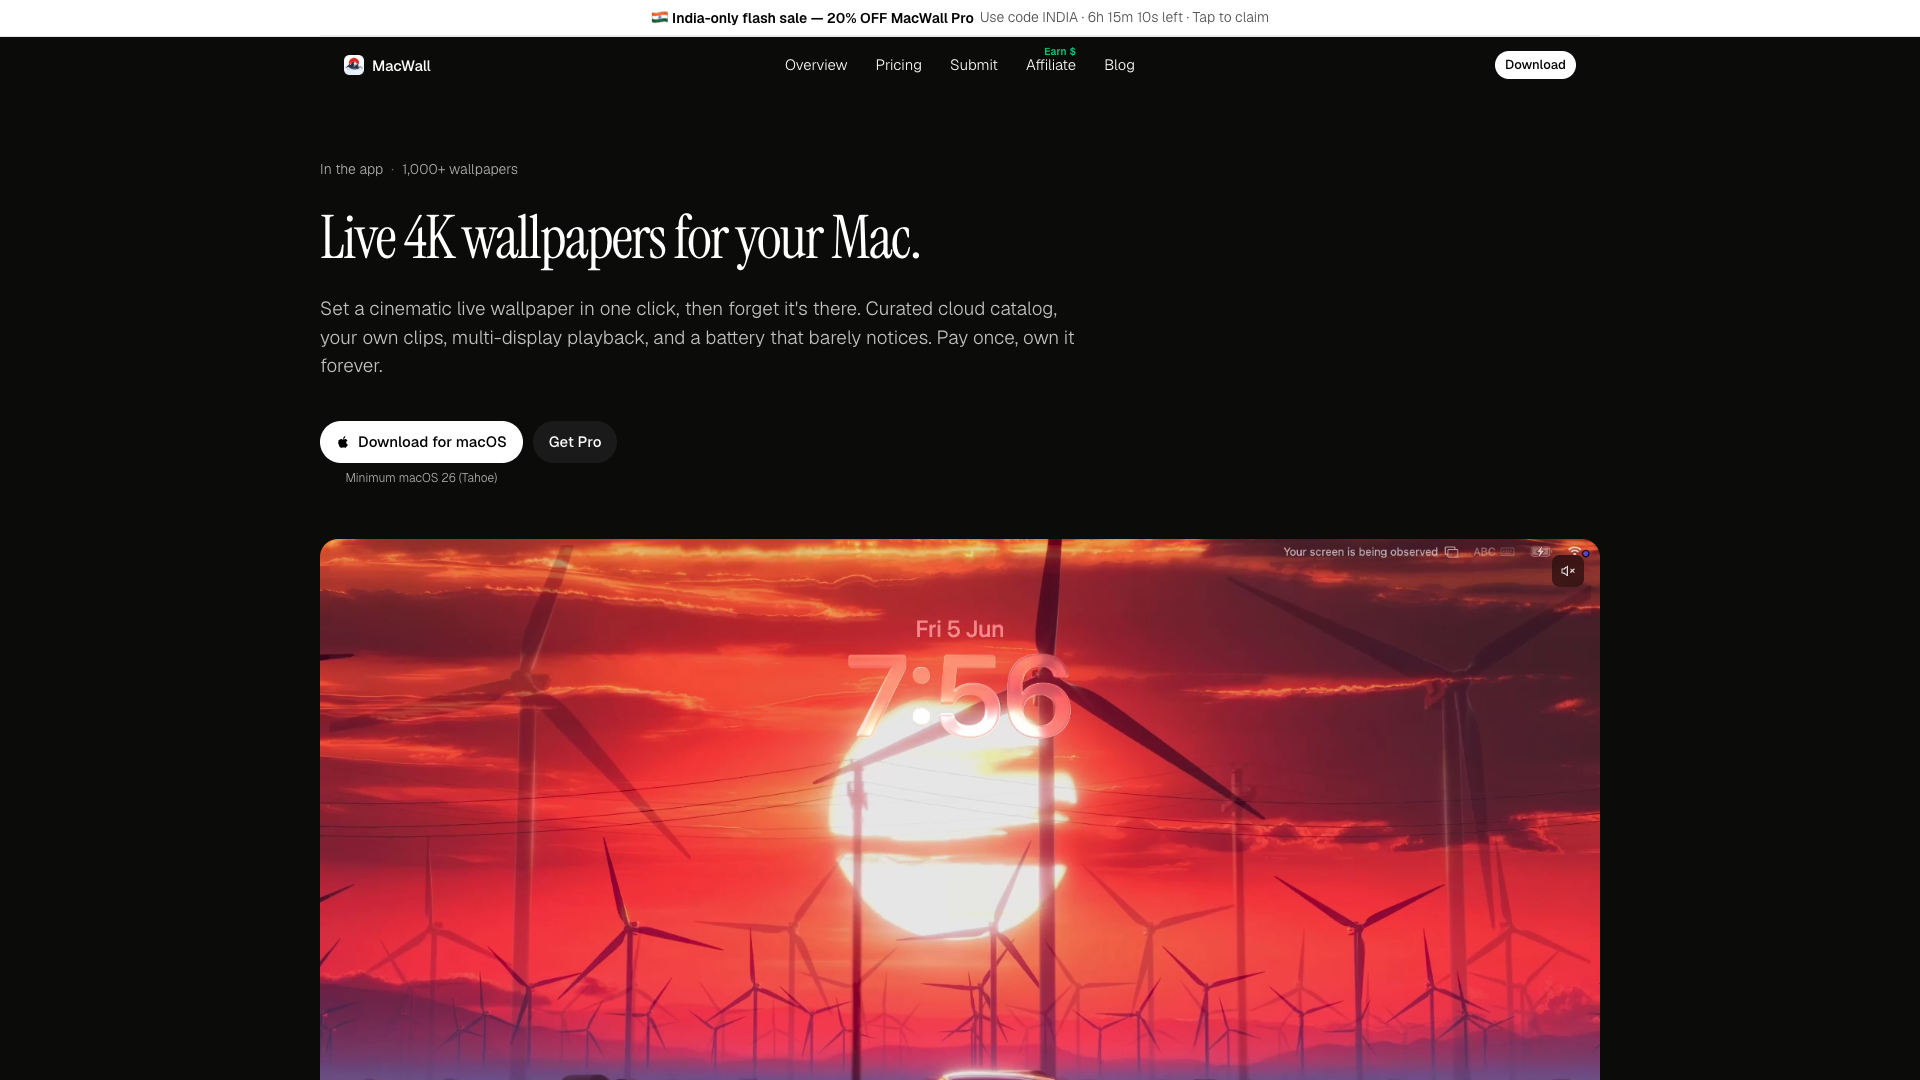
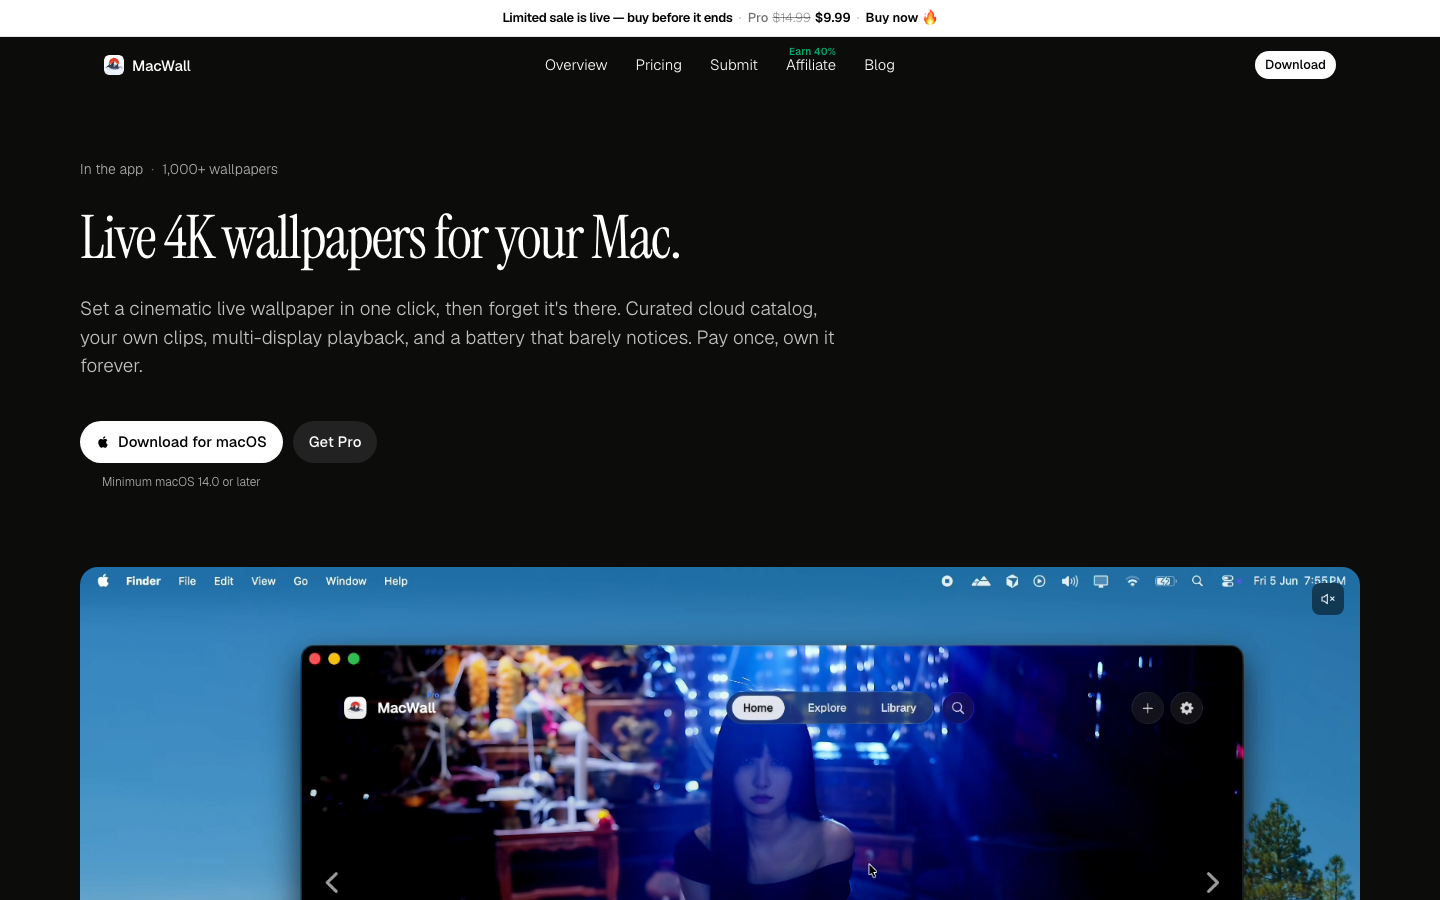
refresh README and screenshots for current Free/Pro/Pro+ pricing

diff --git a/README.md b/README.md
@@ -1,71 +1,81 @@
 # MacWall Web
 
-hey! this is the website for **[MacWall](https://macwall.app)** — a native macOS app for cinematic live wallpapers.
+hey! this is the website for **[MacWall](https://macwall.app)** — a native macOS app for cinematic live 4K wallpapers.
 
-**demo (no setup needed):** [https://macwall.app](https://macwall.app)
+**live site (no setup):** [https://macwall.app](https://macwall.app)
 
-you can download the free app, browse the wallpaper catalog, and upgrade to Pro from the site. payments go through Stripe. after checkout, the license opens the Mac app with a `macwall://activate` deep link.
+browse the catalog, download the free Mac app, and unlock Pro with a one-time Stripe checkout. after payment, the license opens the app via `macwall://activate`.
 
-if you just want to try MacWall, open the site and hit download. you dont need this repo for that.
+you dont need this repo just to use MacWall — clone it if you want to run or contribute to the web + commerce side.
 
-![MacWall homepage](public/screenshots/homepage.png)
+![MacWall homepage — live 4K wallpapers hero](public/screenshots/homepage.png)
 
 ## why I made this
 
-I built MacWall (the Mac app) first, then realized the product needed a real home on the web — not just a landing page. this repo is that home: pricing, Stripe checkout, license delivery, blog/SEO pages, community wallpaper submissions, affiliates, and support.
+I built MacWall (the Mac app) first, then needed a real home on the web — not a throwaway landing page. this repo is that home: marketing, pricing, Stripe checkout, license delivery, blog/SEO, community submissions, affiliates, and support.
 
-the actual Mac app is Swift and lives in a separate repo. this one is everything on the web + commerce side.
+the Mac app itself is Swift and lives in a separate repo. this one is the public web + commerce stack.
 
-## screenshots
+## screenshots (current)
 
-### homepage
+### homepage hero
 
-the marketing site with the live wallpaper hero.
+live wallpaper product shot, download CTA, and “pay once, own it forever” positioning. catalog callout: **1,000+ wallpapers**. minimum **macOS 14.0+**.
 
 ![MacWall homepage](public/screenshots/homepage.png)
 
 ### pricing
 
-free, annual Pro, permanent Pro Plus, and the Reel Refund offer.
+three plans — **Free**, **Pro** ($9.99 one-time, limited sale), and **Pro+** ($14.99 one-time for up to 5 Macs). no new annual subscriptions. Stripe Adaptive Pricing localizes presentment at checkout.
 
-![MacWall pricing](public/screenshots/pricing.png)
+![MacWall pricing — Free / Pro / Pro+](public/screenshots/pricing.png)
 
 ### app settings
 
-battery + playback controls inside the Mac app (shown so you can see what the site is selling).
+battery + playback controls inside the Mac app (what the site is selling).
 
 ![MacWall settings](public/screenshots/settings.jpg)
 
 ## what this repo does
 
-- main homepage + product pages (hero demo, lock screen / screen saver pitches)
-- pricing + Stripe Checkout (annual, permanent, 5-Mac plans, India coupon support)
-- thank-you / license activation flow (`macwall://activate`)
-- blog + SEO landing pages + wallpaper category pages
+- homepage with real catalog hero demo (Home / Explore / Library UI)
+- pricing: Free · Pro (3 Macs) · Pro+ (5 Macs) — pay once, lifetime updates
+- Stripe Checkout only (`/api/checkout/create-session`) + Adaptive Pricing
+- thank-you / license activation (`macwall://activate`)
+- abandoned-checkout recovery queue (Supabase + cron edge function)
+- blog, SEO landings, wallpaper category pages
 - community wallpaper submissions
 - affiliate program pages
 - support inbox UI
-- admin tools for managing the wallpaper catalog
+- admin tools for the wallpaper catalog
 - license emails via Supabase edge functions
+
+## pricing model (current)
+
+| plan | price | what you get |
+| --- | --- | --- |
+| **Free** | $0 | curated free wallpapers, menu bar, multi-display, community uploads |
+| **Pro** | **$9.99** one-time (was $14.99) | 1,000+ live wallpapers, Lock Screen & Screen Saver, import videos, up to **3 Macs**, Music Sync, lifetime updates |
+| **Pro+** | **$14.99** one-time (was $24.99) | everything in Pro on up to **5 Macs** |
+
+headline on `/pricing`: **Pay once. Pro forever.** — limited price, no subscriptions for new buyers.
+
+creators can still earn up to 100% back via the [Reel Refund](https://macwall.app/pricing/reel-refund) offer.
 
 ## how this was made
 
-stack is pretty straightforward once you see the pieces:
-
-- **[Next.js](https://nextjs.org)** App Router for the site (React + TypeScript)
-- **[Stripe](https://stripe.com)** Checkout for payments
-- **[Supabase](https://supabase.com)** for licenses, device limits, and edge functions that send license emails
-- **[Vercel](https://vercel.com)** for hosting
-- **[Tailwind CSS](https://tailwindcss.com)** + **[shadcn/ui](https://ui.shadcn.com)** for the UI
-- **Cloudflare R2** (`cdn.macwall.app`) for wallpaper posters / clips
+- **[Next.js](https://nextjs.org)** App Router (React + TypeScript)
+- **[Stripe](https://stripe.com)** Checkout for payments (only gateway)
+- **[Supabase](https://supabase.com)** for licenses, device limits, edge functions
+- **[Vercel](https://vercel.com)** hosting
+- **[Tailwind CSS](https://tailwindcss.com)** + **[shadcn/ui](https://ui.shadcn.com)**
+- **Cloudflare R2** (`cdn.macwall.app`) for wallpaper media
 
 ### problems I had to fix
 
-a few things that actually took work:
-
-1. **abandoned checkout recovery** — Stripe does not tell you “this person abandoned after 5 minutes.” I ended up with a DB queue + cron edge function that sends a recovery email if payment never completed.
-2. **making the hero feel like the real app** — the homepage demo uses real catalog clips (not fake mockups), so the marketing site matches what you get after download.
-3. **keeping secrets out of the public repo** — Stripe / Supabase / R2 keys stay in env only. the open-source tree should be safe to clone without leaking production credentials.
+1. **abandoned checkout recovery** — Stripe doesnt tell you someone bailed after 5 minutes. solved with a DB queue + cron edge function that emails a recovery link if payment never completed.
+2. **hero that matches the real app** — homepage uses real catalog clips / UI chrome, not fake mockups.
+3. **secrets out of the public repo** — Stripe / Supabase / R2 stay in env + Vercel only. sanitized `.env.example` ships empty.
 
 ## tech stack
 
@@ -73,31 +83,31 @@ a few things that actually took work:
 | --- | --- |
 | Next.js 16 (App Router) | website + API routes |
 | React 19 + TypeScript | UI |
-| Stripe | Checkout / payments |
+| Stripe | Checkout / Adaptive Pricing |
 | Supabase | licenses, edge functions, emails |
 | Vercel | deploy + hosting |
-| Tailwind CSS + shadcn/ui | styling / components |
+| Tailwind CSS + shadcn/ui | styling |
 | Cloudflare R2 | wallpaper media CDN |
 | Motion | marketing animations |
 
 ## heres how to run the project
 
-### 1. clone the source code
+### 1. clone
 
 ```sh
 git clone https://github.com/foundrceo/MacWall-Web.git
 cd MacWall-Web
 ```
 
-### 2. install dependencies
+### 2. install
 
 ```sh
 npm install
 ```
 
-### 3. add env vars
+### 3. env
 
-create a `.env` file in the project root (do **not** commit it). for local development youll want at least:
+copy `.env.example` → `.env` and fill real values (do **not** commit `.env`):
 
 ```env
 NEXT_PUBLIC_SITE_URL=http://localhost:3000
@@ -105,13 +115,12 @@ NEXT_PUBLIC_SUPABASE_URL=...
 NEXT_PUBLIC_SUPABASE_ANON_KEY=...
 SUPABASE_SERVICE_ROLE_KEY=...
 STRIPE_SECRET_KEY=...
-NEXT_PUBLIC_STRIPE_PUBLISHABLE_KEY=...
 NEXT_PUBLIC_R2_PUBLIC_BASE_URL=https://cdn.macwall.app
 ```
 
-checkout, admin, and license email flows need the Stripe + Supabase keys. marketing pages can still render without every secret filled in.
+checkout, admin, and license emails need Stripe + Supabase. marketing pages can render without every secret filled in. see `.env.example` for the full list.
 
-### 4. start the dev server
+### 4. dev
 
 ```sh
 npm run dev
@@ -119,9 +128,11 @@ npm run dev
 
 open [http://localhost:3000](http://localhost:3000)
 
-### 5. build for production (optional)
+### 5. checks / production build
 
 ```sh
+npm run lint
+npm run typecheck
 npm run build
 npm start
 ```
@@ -130,17 +141,16 @@ npm start
 
 | route | what it is |
 | --- | --- |
-| `/` | homepage |
-| `/pricing` | plans + Stripe checkout |
+| `/` | homepage hero |
+| `/pricing` | Free / Pro / Pro+ |
+| `/pricing/reel-refund` | creator refund offer |
 | `/download` | Mac installer |
 | `/blog` | blog |
-| `/submit` | community wallpaper submissions |
+| `/submit` | community wallpapers |
 | `/affiliate` | affiliate program |
 | `/support` | support inbox |
 
 ## download the Mac app
-
-latest installer is on the site:
 
 **[https://macwall.app/download](https://macwall.app/download)**
 
@@ -150,6 +160,6 @@ or grab `MacWall.dmg` from the latest GitHub Release on this repo.
 
 I used Cursor while building this website — mostly for components, Stripe checkout wiring, SEO pages, admin tools, and some early copy drafts.
 
-the idea, product direction, pricing, branding, and design decisions are mine. the native Mac app is also built separately by me.
+the idea, product direction, pricing, branding, and design decisions are mine. the native Mac app is built separately by me.
 
-Cursor helped me move faster, but I still reviewed and changed the code based on what MacWall actually needed. this README was written and edited by me for the project — it is not pasted AI boilerplate.
+Cursor helped me move faster; I still reviewed and changed the code for what MacWall actually needed. this README was written and edited for the project — not pasted AI boilerplate.
